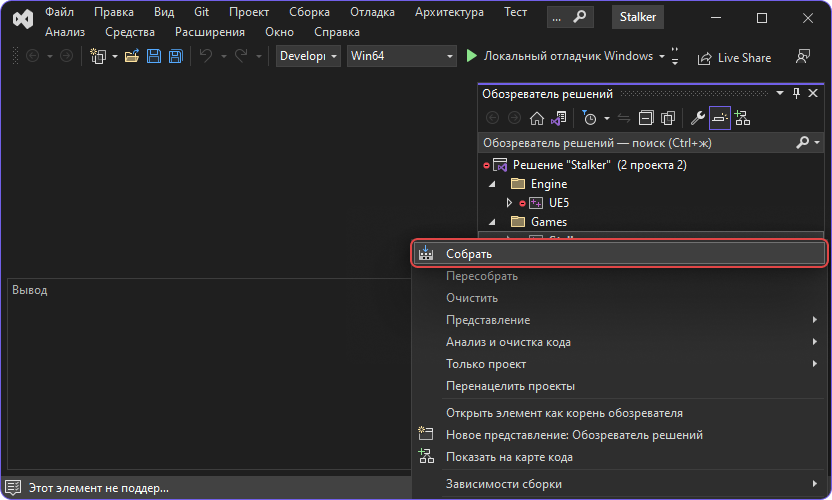
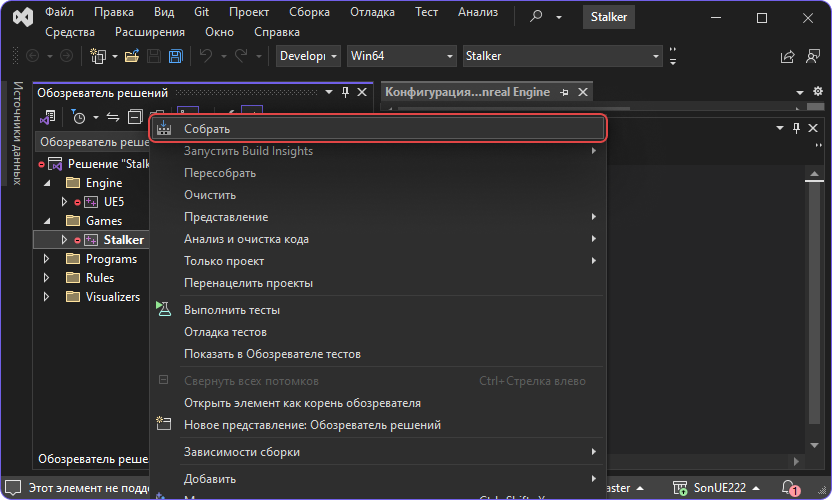
* EDIT: Update ReadMe

diff --git a/README.md b/README.md
@@ -2,7 +2,9 @@
     <img src="Resources/Media/LogoText.png" alt="STALKER on UE Logo" />
 </p>
 
-# STALKER on UE ![Unreal Engine 5.3.2](https://img.shields.io/badge/Unreal_Engine-5.3.2-blue) [![Discord](https://img.shields.io/discord/530968529311367178?style=social&logo=Discord&label=Discord)](https://discord.gg/dbBdK2GxKf) 
+# STALKER on UE 
+
+![Unreal Engine 5.3.2](https://img.shields.io/badge/Unreal_Engine-5.3.2-blue) [![Discord](https://img.shields.io/discord/530968529311367178?style=social&logo=Discord&label=Discord)](https://discord.gg/dbBdK2GxKf) 
 
 Welcome to the world of STALKER on UE - a revolutionary modification that ports the original STALKER trilogy and the X-Ray Engine logic onto the incredibly powerful Unreal Engine 5!
 As a bonus, it provides the ability to create new and port existing mods for the original X-Ray.
@@ -73,7 +75,9 @@ After successfully building X-Ray Engine, return to the repository's root folder
 ### 2. Compiling Files to Launch the Unreal Engine Project
 After generating the Visual Studio project, open it and select the desired build configuration.
 
-The generated file can be found at `{src}/Stalker.sln`
+The generated file can be found at `{src}/Stalker.sln`.
+
+**Warning!!!** Select "Games / Stalker" in the project explorer and press "Build".
 
 <p>
     <img src="Resources/Media/ue-build.png" alt="UE Build" />
